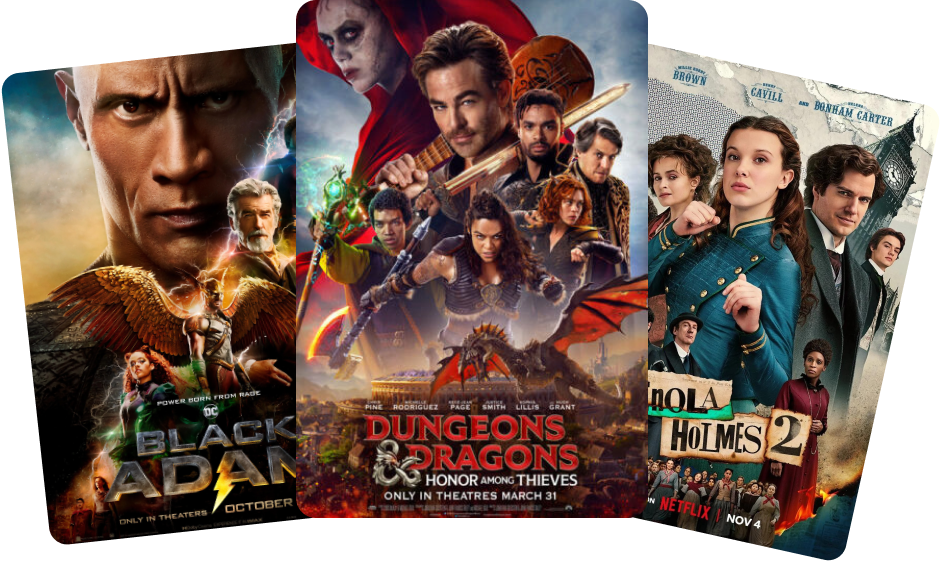
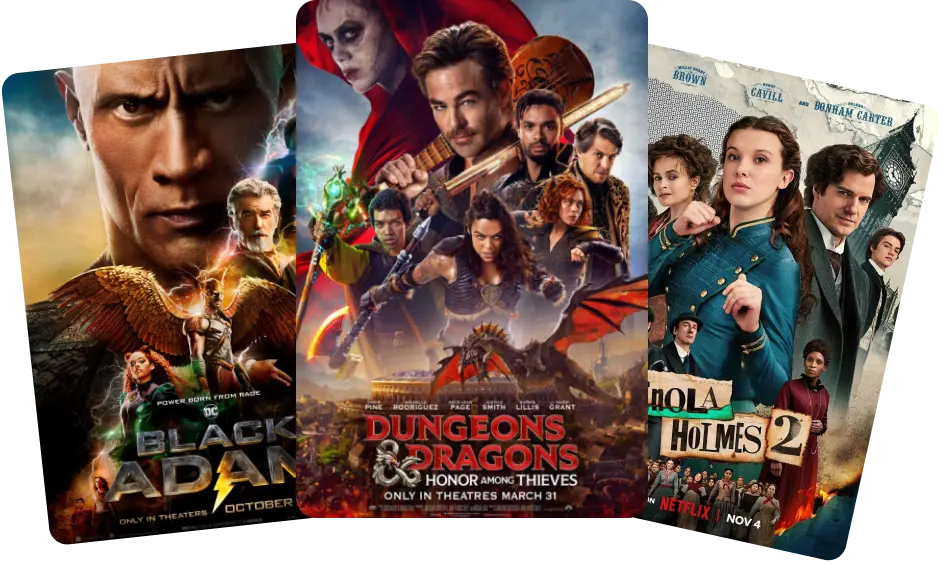
feat: replace bloated image file with small one's

diff --git a/README.md b/README.md
@@ -154,7 +154,7 @@ The app uses the **TMDB API** and **Appwrite** for data fetching and storage. Be
 
 ## Screenshot
 
-![Screenshot](./public/localhost_ScreenShot.png)
+![Screenshot](./public/localhost_ScreenShot.webp)
 
 ---
 ## Folder Structure 📂
